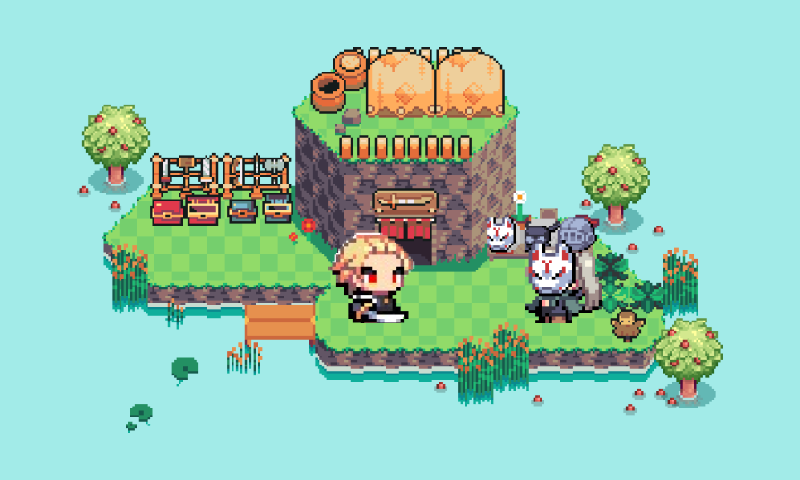
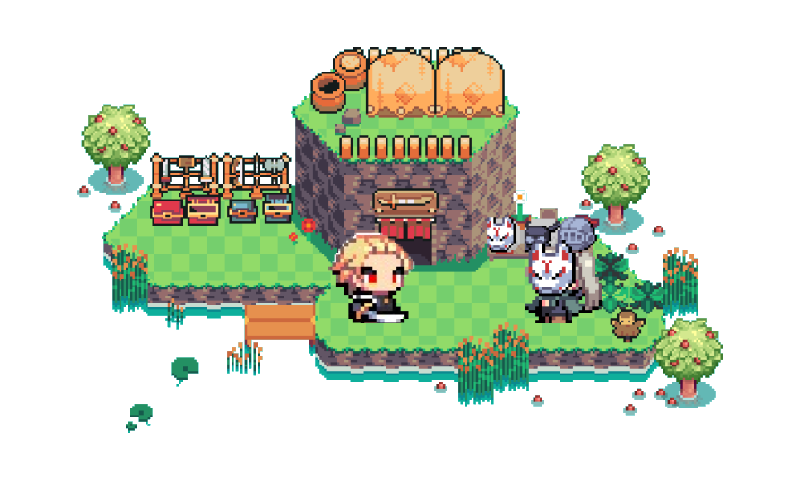
測驗頁面種花種草

diff --git a/src/sass/page/_test.scss b/src/sass/page/_test.scss
@@ -1,10 +1,80 @@
 .test_wrap{
-    width: $wrapRwd;
+    width: 100%;
     margin: auto;
     margin-top: 10%;
-    padding: 30px 0px;
+    padding: 30px 30px;
+    box-sizing: border-box;
     display: flex;
     flex-direction: column;
+
+    //---------- 裝飾用背景 ---------//
+    background-repeat: no-repeat;
+
+    //----- 手機用背景 -----//
+    @media screen and (max-width : $md_breakpoint) {
+        background-image:
+        // 第三座島的背景
+        url("../images/home_island_inwater_3.png"),url("../images/home_lesson_island2.png"),url("../images/home_island_inwater_4.png"),
+
+        // 第二座島的背景
+        url("../images/home_island_inwater_3.png"),url("../images/home_lesson_island2.png"),url("../images/home_island_inwater_2.png"),
+        
+        // 第一座島的背景
+        url("../images/home_lesson_island3.png"),url("../images/home_island_inwater_4.png")
+        ;
+
+        background-position: 
+        // 第三座島的背景位置
+        right 11% top 100%,right 250px top 100%,right 30px top 75%,
+
+        // 第二座島的背景位置
+        right 0% top 62%,right 250px top 55%,right 10px top 30%,
+
+        // 第一座島的背景位置
+        right 250px top 5%,right 30% top 1%
+        ;
+
+    }
+
+    @include md{
+        
+        background-image:
+        // 第三座島的背景
+        url("../images/home_lesson_island.png"),url("../images/home_island_inwater_4.png"),
+        
+        // 第二座島的背景
+        url("../images/home_island_inwater_1.png"),
+
+        // 第一座島的背景
+        url("../images/home_lesson_island.png"),url("../images/home_island_inwater_3.png"),url("../images/home_island_inwater_4.png")
+        ;
+
+        background-position: 
+        // 第三座島的背景位置
+        right -15% top 105%,right 10% top 80%,
+
+        // 第二座島的背景位置
+        left 18% top 60%,
+
+        // 第一座島的背景位置
+        right -10% top -1%,right 5% top 30%,left 8% top 40%
+        ;
+
+        background-size: 
+        // 第三座島的背景大小
+        45%,14%,
+
+        // 第二座島的背景大小
+        13%,
+
+        // 第一座島的背景大小
+        40%,10%,15%
+        ;
+    }
+
+    
+    //---------- 裝飾用背景結束 ---------//
+
 }
 
 .test_h2{
@@ -197,7 +267,13 @@
 // 調整版面位置 //
 
 .test_section{
+    
+
     @include md{
+        // &:nth-child(even){
+        //     left:80px;
+        // }
+
         &:nth-child(odd)>.test_pic img{
             transform: scale(1,1);
         }
